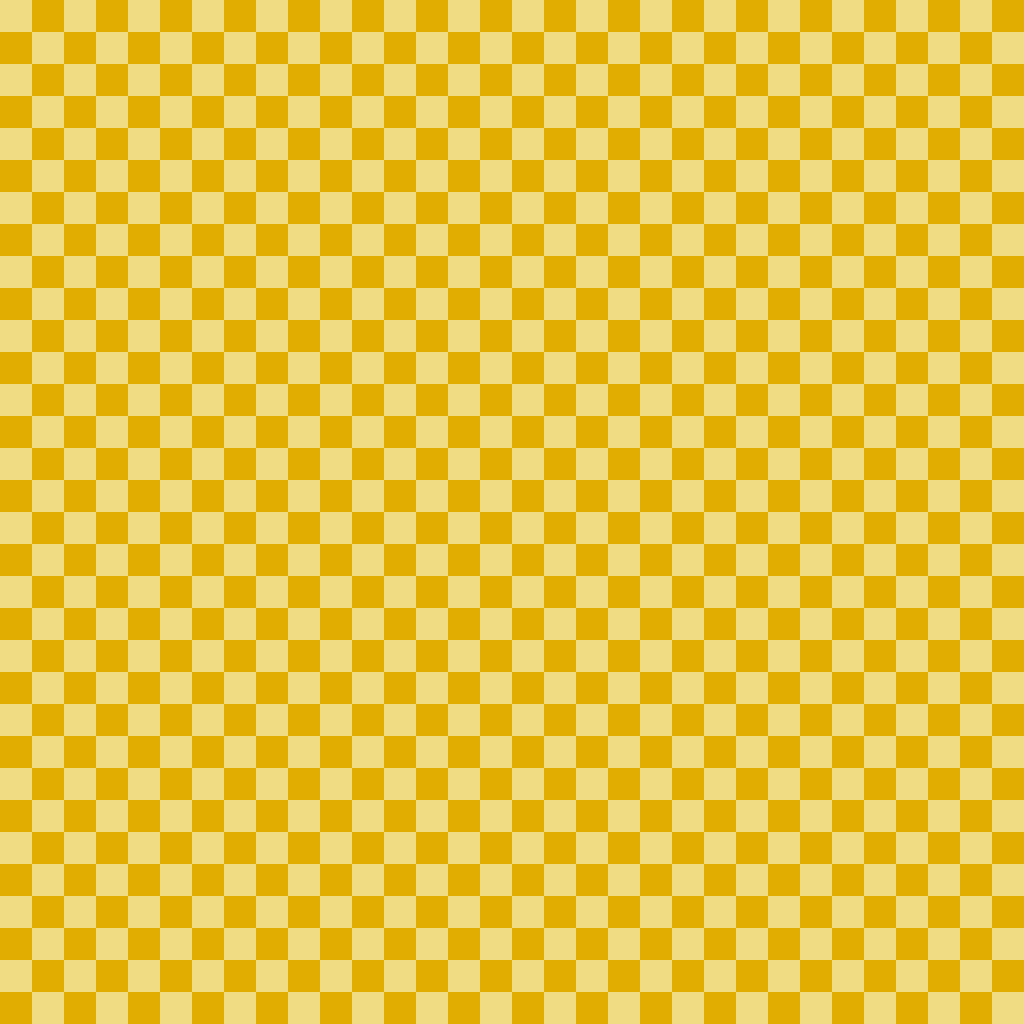
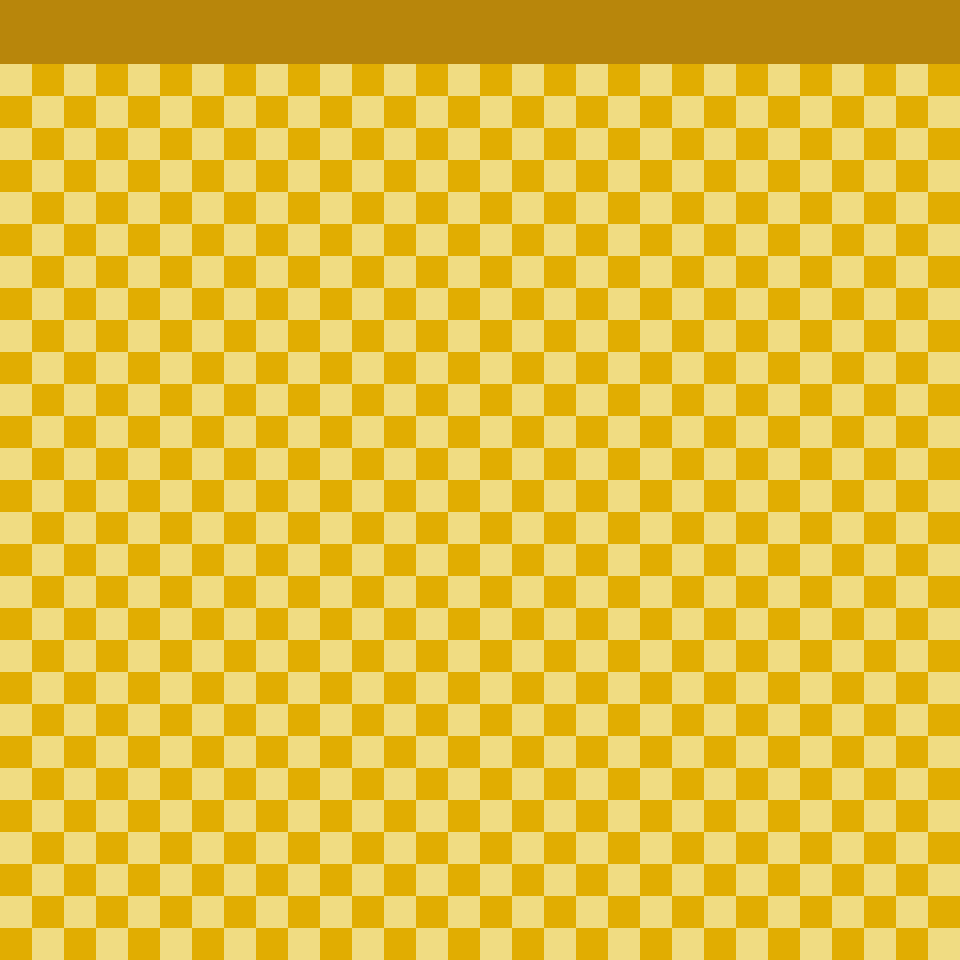
feat: add dynamic speed scaling, collision checks, and rendering fixes

diff --git a/src/main/java/com/dnake/entities/Snake.java b/src/main/java/com/dnake/entities/Snake.java
@@ -47,53 +47,51 @@ public class Snake {
         return snakelocation;
     }
 
-    public void moveSnake() {
+    public boolean moveSnake() {
 
         int snake_x;
         int snake_y;
 
         snake_x = snakelocation.get(0).getX();
         snake_y = snakelocation.get(0).getY();
+
+        SnakeLocation slw = null; // Yeni kafa pozisyonu
         
-        if (currentDirection == Direction.UP && snake_y > 0) {
-            SnakeLocation slw = new SnakeLocation(snake_x, snake_y - 1);
-
-            // yılan kendini yerse game over, yemezse de yeni konumu ekle
-            isCollidingWithBody(slw);
-
-            // yılanin elma yeme ihtimaline karsi kuyruk hafizada tutularak siliniyor
-            popTailPosition();
-        } else if (currentDirection == Direction.UP && snake_y == 0) {
-            SnakeLocation slw = new SnakeLocation(snake_x, GameState.HEIGHT - 1);
-            isCollidingWithBody(slw);
-            popTailPosition();
+        if (currentDirection == Direction.UP && snake_y > 2) {
+            slw = new SnakeLocation(snake_x, snake_y - 1);
+        } else if (currentDirection == Direction.UP && snake_y == 2) {
+            slw = new SnakeLocation(snake_x, GameState.HEIGHT - 1);
         } else if (currentDirection == Direction.LEFT && snake_x > 0) {
-            SnakeLocation slw = new SnakeLocation(snake_x - 1, snake_y);
-            isCollidingWithBody(slw);
-            popTailPosition();
+            slw = new SnakeLocation(snake_x - 1, snake_y);
         } else if (currentDirection == Direction.LEFT && snake_x == 0) {
-            SnakeLocation slw = new SnakeLocation(GameState.WIDTH - 1, snake_y);
-            isCollidingWithBody(slw);
-            popTailPosition();
+            slw = new SnakeLocation(GameState.WIDTH - 1, snake_y);
         } else if (currentDirection == Direction.DOWN && snake_y < GameState.HEIGHT - 1) {
-            SnakeLocation slw = new SnakeLocation(snake_x, snake_y + 1);
-            isCollidingWithBody(slw);
-            popTailPosition();
+            slw = new SnakeLocation(snake_x, snake_y + 1);
         } else if (currentDirection == Direction.DOWN && snake_y == GameState.HEIGHT - 1) {
-            SnakeLocation slw = new SnakeLocation(snake_x, 0);
-            isCollidingWithBody(slw);
-            popTailPosition();
+            slw = new SnakeLocation(snake_x, 2);
         } else if (currentDirection == Direction.RIGHT && snake_x < GameState.WIDTH - 1) {
-            SnakeLocation slw = new SnakeLocation(snake_x + 1, snake_y);
-            isCollidingWithBody(slw);
-            popTailPosition();
+            slw = new SnakeLocation(snake_x + 1, snake_y);
         } else if (currentDirection == Direction.RIGHT && snake_x == GameState.WIDTH - 1) {
-            SnakeLocation slw = new SnakeLocation(0, snake_y);
-            isCollidingWithBody(slw);
-            popTailPosition();
+            slw = new SnakeLocation(0, snake_y);
         } else {
             // ignore
         }
+
+        if (slw != null) {
+            // 1. KRİTİK DEĞİŞİKLİK: Önce mevcut kuyruğu sil! 
+            // Çünkü kafa o kuyruğun yerine geçiyor olabilir.
+            popTailPosition();
+
+            // 2. KONTROL: Kuyruk silindikten sonra kafa gövdeye çarpıyor mu?
+            boolean isCrashed = checkSnakeAt(slw.getX(), slw.getY());
+
+            // 3. KAFAYI EKLE: Çarpmamışsa da çarpmışsa da kafayı çizdiriyoruz ki ekranda görelim
+            snakelocation.add(0, slw);
+
+            return isCrashed; // Çarpışma bilgisini dışarı (GameState'e) fırlat!
+        }
+        
+        return false;
     }
 
     public void popTailPosition(){
@@ -107,7 +105,9 @@ public class Snake {
         indexof() index numarasını bulmak için arka planda tekrardan döngüyü çalıştırır ve
         bu performans açısından yorucudur.
      */
+
     public boolean  checkSnakeAt(int x, int y) {
+
         for (int i = 0; i < snakelocation.size(); i++) {
             SnakeLocation snkloc = snakelocation.get(i);
 
@@ -116,18 +116,9 @@ public class Snake {
             }
         }
 
-        //döngüden çıktı ve hiçbir eşleşme yok -> yılana ait koordinat değil
-        return false;
-    }
+        
 
-    public boolean isCollidingWithBody(SnakeLocation slw) {
-        boolean is_eat_itself = checkSnakeAt(slw.getX(), slw.getY());
-        if (!is_eat_itself) {
-            snakelocation.add(0, slw);
-        } else {
-            System.out.println("GAME OVER");
-            return true;
-        }
+        //döngüden çıktı ve hiçbir eşleşme yok -> yılana ait koordinat değil
         return false;
     }
 
@@ -142,7 +133,6 @@ public class Snake {
     }
 
     public void setCurrentDirection(Direction newDirection) {
-    // TODO: Yılanın kendi içine doğru (tersine) dönmesini engelleme mantığını buraya kurabilirsin!
     this.currentDirection = newDirection;
     }
 }

diff --git a/src/main/java/com/dnake/engine/GameState.java b/src/main/java/com/dnake/engine/GameState.java
@@ -10,12 +10,13 @@ import com.dnake.utils.EntitySpawner;
 
 public class GameState {
     
-    public static final int HEIGHT = 32;   // tüm sınıfların görebileceği bir sabit olması için static eklendi
-    public static final int WIDTH = 32;    // böylece Map. ile erişebileceğiz
+    public static final int HEIGHT = 30;   // tüm sınıfların görebileceği bir sabit olması için static eklendi
+    public static final int WIDTH = 30;    // böylece Map. ile erişebileceğiz
     private Snake snake;
     private Food food;
     private Poison poison;
     private volatile boolean isGameOver = false;
+    private int score = 0;
     private EntitySpawner<Food> foodSpawner = new EntitySpawner<>();
     private EntitySpawner<Poison> poisonSpawner = new EntitySpawner<>();
     Random random_number = new Random();
@@ -44,6 +45,9 @@ public class GameState {
     public boolean getIsPaused() { 
         return isPaused; 
     }
+    public int getScore(){
+        return score;
+    }
 
     // Oyun döngüsü (GameLoopThread) her 200ms'de bir bu metodu çağıracak
     public void update(String input) {
@@ -64,9 +68,16 @@ public class GameState {
         }
 
         // Yılanı o anki yönünde bir adım yürüt
-        snake.moveSnake();
+        boolean isCrashed = snake.moveSnake();
+        
+        if (isCrashed){
+            this.isGameOver = true;
+            System.out.println("Game Over");
+            return;
+        }
 
         if (eatObject(poison)) {
+            System.out.println("Game Over");
             isGameOver = true;
         }
 
@@ -90,15 +101,6 @@ public class GameState {
             isPoisonRisiko();
         }
         
-    }
-
-    public void togglePause() {
-        this.isPaused = !this.isPaused;
-        if (this.isPaused) {
-            System.out.println("--- OYUN DURAKLATILDI (Devam etmek için tekrar 'P' basın) ---");
-        } else {
-            System.out.println("--- OYUN DEVAM EDİYOR ---");
-        }
     }
 
     public void createRandomFood(){
@@ -127,16 +129,21 @@ public class GameState {
     }
 
     public <T extends GameObject & IConsumable> boolean eatObject(T item){
-            if (item == null) return false;
-    
-            int snakeHead_x = snake.getSnakeLocation().get(0).getX();
-            int snakeHead_y = snake.getSnakeLocation().get(0).getY();
-    
-            if (snakeHead_x == item.getX() && snakeHead_y == item.getY()) {
-                item.consume(snake);
-                return true;
-            }
-            return false;
+        if (item == null) return false;
+
+        int snakeHead_x = snake.getSnakeLocation().get(0).getX();
+        int snakeHead_y = snake.getSnakeLocation().get(0).getY();
+
+        if (snakeHead_x == item.getX() && snakeHead_y == item.getY()) {
+            item.consume(snake);
+            score++;
+            return true;
         }
+        return false;
+    }
+
+    public boolean isGameOver() {
+        return isGameOver;
+    }
 }
 

diff --git a/src/main/java/com/dnake/gui/GamePanel.java b/src/main/java/com/dnake/gui/GamePanel.java
@@ -20,7 +20,7 @@ public class GamePanel extends JPanel{
         this.images = images;
         this.state = state;
         this.inputQueue = inputQueue;
-        setPreferredSize(new Dimension(1024, 1024));
+        setPreferredSize(new Dimension(960, 960));
 
         // 1. KRİTİK AYAR: Panelin klavye girdilerini dinleyebilmesi için odaklanabilir yapıyoruz
         setFocusable(true); 
@@ -53,10 +53,10 @@ public class GamePanel extends JPanel{
     @Override
     protected void paintComponent(Graphics g){
         super.paintComponent(g);
-        g.drawImage(images.mapImage, 0, 0, 1024, 1024, null);
+        g.drawImage(images.mapImage, 0, 0, 960, 960, null);
     
 
-        // 2. Elmayı çiz (Eğer varsa)
+        // Elmayı çiz (Eğer varsa)
         if (state.getFood() != null) {
             int foodX = state.getFood().getX() * cellSize;
             int foodY = state.getFood().getY() * cellSize;
@@ -73,17 +73,32 @@ public class GamePanel extends JPanel{
 
         // 3. Yılanı çiz
         ArrayList<SnakeLocation> body = state.getSnake().getSnakeLocation();
-        for (int i = 0; i < body.size(); i++) {
+
+        // Önce Gövdeyi Çiz (Döngüyü 1'den başlatıyoruz ki kafayı atlasın)
+        for (int i = 1; i < body.size(); i++) {
             int partX = body.get(i).getX() * cellSize;
             int partY = body.get(i).getY() * cellSize;
 
-            if (i == 0) {
-                // 0. index yılanın kafasıdır
-                g.drawImage(images.snakeHead, partX, partY, cellSize, cellSize, null);
-            } else {
-                // Diğerleri yılanın gövdesidir
-                g.drawImage(images.snakeBody, partX, partY, cellSize, cellSize, null);
-            }
-         }
+            g.drawImage(images.snakeBody, partX, partY, cellSize, cellSize, null);
+        }
+
+        // En Son Kafayı Çiz (Böylece kafa daima gövdenin üstünde, yani görünür kalır!)
+        int headX = body.get(0).getX() * cellSize;
+        int headY = body.get(0).getY() * cellSize;
+        g.drawImage(images.snakeHead, headX, headY, cellSize, cellSize, null);
+
+        // draw score on top of the bar
+        Graphics2D g2 = (Graphics2D) g;
+        g2.setColor(Color.BLACK);
+        g2.setFont(new Font("Monospaced", Font.BOLD, 28));
+        String scoreText = "SCORE: " + state.getScore();
+        g2.drawString(scoreText, 20, 42);
+
+        // OYUN BİTTİYSE EKRANIN ORTASINA GAME OVER YAZ!
+        if (state.isGameOver()) {
+            g2.setColor(Color.RED);
+            g2.setFont(new Font("Monospaced", Font.BOLD, 80)); // Kocaman font
+            g2.drawString("GAME OVER", 250, 480); // Şimdilik göz kararı ortaladık
+        }
     }
 }

diff --git a/src/main/java/com/dnake/utils/EntitySpawner.java b/src/main/java/com/dnake/utils/EntitySpawner.java
@@ -17,8 +17,8 @@ public class EntitySpawner<T>{
         // TODO: harita tamamen dolarsa sonsuz döngüye girer
         // creat a position that doesn't belong to the snake
         do {
-            object_random_x = random_object.nextInt(GameState.WIDTH);
-            object_random_y = random_object.nextInt(GameState.HEIGHT);
+            object_random_x = random_object.nextInt(GameState.WIDTH - 2) + 2;
+            object_random_y = random_object.nextInt(GameState.HEIGHT - 2) + 2;
         } while (snake.checkSnakeAt(object_random_x, object_random_y));
 
         // TODO: food ve poison aynı değerleri alabiliyor -> fix it 
